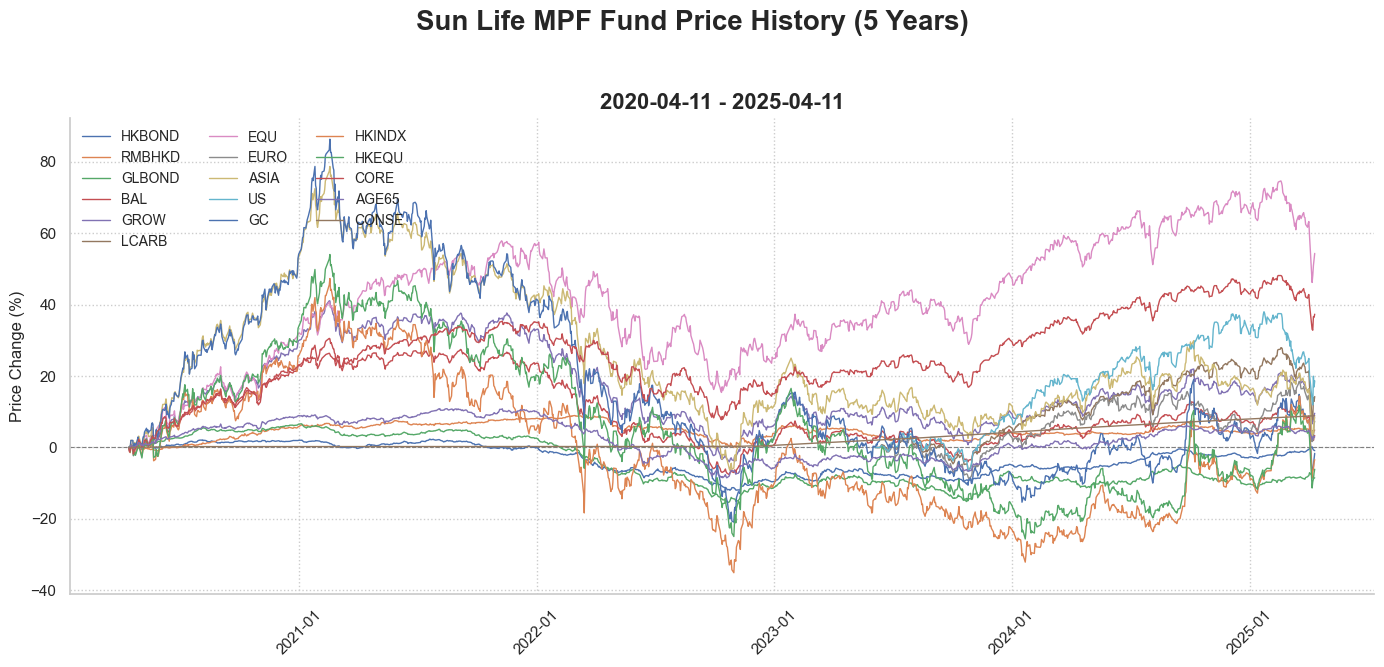
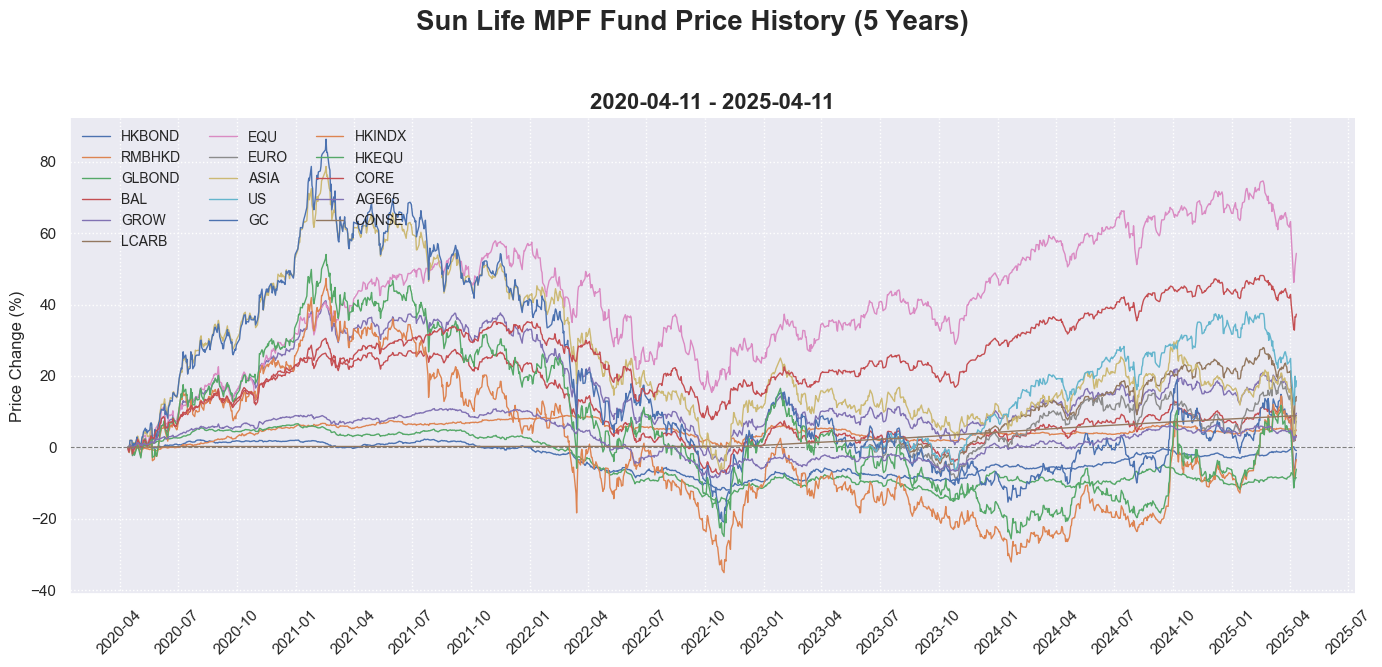
add fund visualization

diff --git a/visualizer.py b/visualizer.py
@@ -27,7 +27,7 @@ def per_year():
     if not os.path.exists(per_year_path):
         os.makedirs(per_year_path)
     
-    sns.set_theme(style="whitegrid")
+    sns.set_theme(style="darkgrid")
 
     period_years = [1, 3, 5, 10, 25]
     start_dates = [datetime(year=last_date.year - period, month=last_date.month, day=last_date.day) for period in period_years]
@@ -47,6 +47,15 @@ def per_year():
         ax.xaxis.set_major_formatter(mdates.DateFormatter('%Y-%m'))
         ax.tick_params(axis='x', rotation=45)
 
+        if period_label <= 2:
+            ax.xaxis.set_major_locator(mdates.MonthLocator(interval=1))
+        elif period_label <= 5:
+            ax.xaxis.set_major_locator(mdates.MonthLocator(interval=3, bymonth=[1, 4, 7, 10]))
+        # elif period_label <= 10:
+        #     ax.xaxis.set_major_locator(mdates.MonthLocator(interval=6, bymonth=[1, 7]))
+        elif 10 < period_label <= 25:
+            ax.xaxis.set_major_locator(mdates.YearLocator(1))
+
         for abbr in fund_abbrs:
             plot_df = df[(df['abbr'] == abbr) & (df['date'] >= start_date)].copy()
 
@@ -60,13 +69,12 @@ def per_year():
                 continue
 
             plot_df['price_change'] = (plot_df['price'] - start_price) / start_price * 100
-
             plot_df = plot_df.set_index('date')
 
             if period_label == 10:
                 plot_df = plot_df[['price_change']].resample('5D').mean().interpolate(method='linear')
             elif period_label == 25:
-                plot_df = plot_df[['price_change']].resample('15D').mean().interpolate(method='linear')
+                plot_df = plot_df[['price_change']].resample('10D').mean().interpolate(method='linear')
             
             plot_df = plot_df.reset_index()
             ax.plot(plot_df['date'], plot_df['price_change'], label=abbr, linewidth=1.0)
@@ -79,5 +87,66 @@ def per_year():
         plt.savefig(os.path.join(per_year_path, f'{period_label}.png'), bbox_inches='tight')
         plt.close(fig)
 
+def per_fund():
+    if not os.path.exists(per_fund_path):
+        os.makedirs(per_fund_path)
+
+    sns.set_theme(style="darkgrid")
+
+    fund_abbrs = names['abbr'].unique()
+
+    for abbr in fund_abbrs:
+        fig, ax = plt.subplots(figsize=(12, 6))
+        full_name = names[names['abbr'] == abbr]['name'].values[0]
+        fig.suptitle(f'{full_name} Price History', fontsize=20, fontweight='bold')
+        
+        ax.set_title(f'As of {last_date.strftime("%Y-%m-%d")}', fontsize=16, fontweight='bold')
+        ax.axhline(0, color='grey', linestyle='--', linewidth=0.8)
+        ax.set_ylabel('Price Change (%)')
+        ax.xaxis.set_major_formatter(mdates.DateFormatter('%Y-%m'))
+        ax.tick_params(axis='x', rotation=45)
+
+        plot_df = df[df['abbr'] == abbr].copy()
+
+        if plot_df.empty:
+            continue
+
+        actual_start_date = plot_df.iloc[0, 0]
+        start_price = plot_df.iloc[0, 1]
+
+        if pd.isna(start_price):
+            continue
+
+        diff = (last_date - actual_start_date).days
+        if diff < 732:
+            ax.xaxis.set_major_locator(mdates.MonthLocator(interval=1))
+        elif diff < 1828:
+            ax.xaxis.set_major_locator(mdates.MonthLocator(interval=3, bymonth=[1, 4, 7, 10]))
+        elif diff < 3654:
+            ax.xaxis.set_major_locator(mdates.MonthLocator(interval=6, bymonth=[1, 7]))
+        elif diff < 7306:
+            ax.xaxis.set_major_locator(mdates.YearLocator(1))
+        else:
+            ax.xaxis.set_major_locator(mdates.YearLocator(2))
+
+        plot_df['price_change'] = (plot_df['price'] - start_price) / start_price * 100
+        plot_df = plot_df.set_index('date')
+
+        if diff >= 3650:
+            plot_df = plot_df[['price_change']].resample('5D').mean().interpolate(method='linear')
+        elif diff >= 7300:
+            plot_df = plot_df[['price_change']].resample('15D').mean().interpolate(method='linear')
+        
+        plot_df = plot_df.reset_index()
+        ax.plot(plot_df['date'], plot_df['price_change'], linewidth=1.5)
+        
+        ax.grid(True, linestyle=':', linewidth=1)
+        sns.despine()
+
+        plt.tight_layout(rect=[0, 0.03, 1, 0.95])
+        plt.savefig(os.path.join(per_fund_path, f'{abbr}.png'), bbox_inches='tight')
+        plt.close(fig)
+
 if __name__ == '__main__':
-    per_year()
+    # per_year()
+    per_fund()
